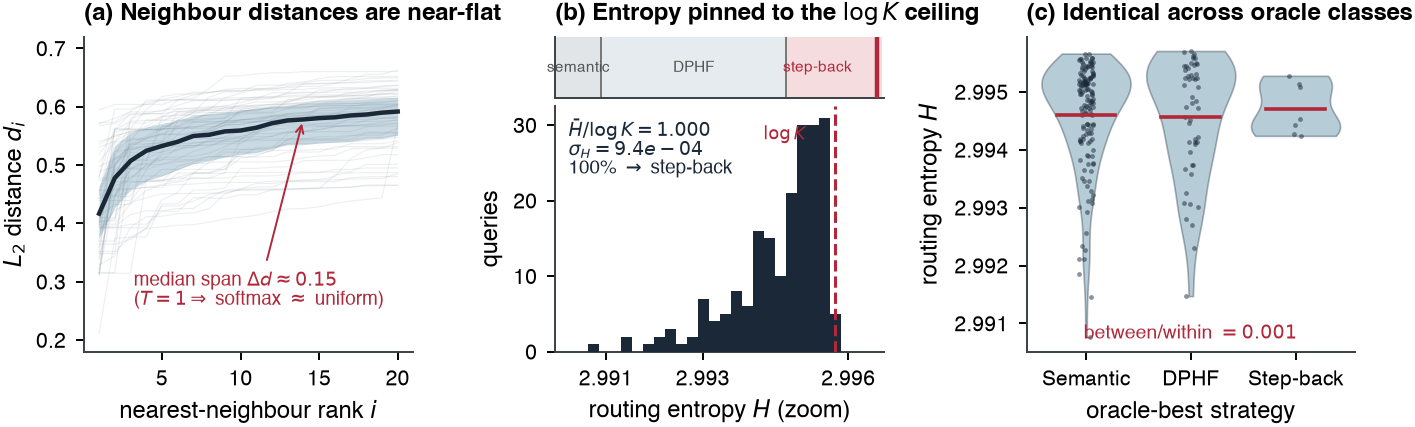
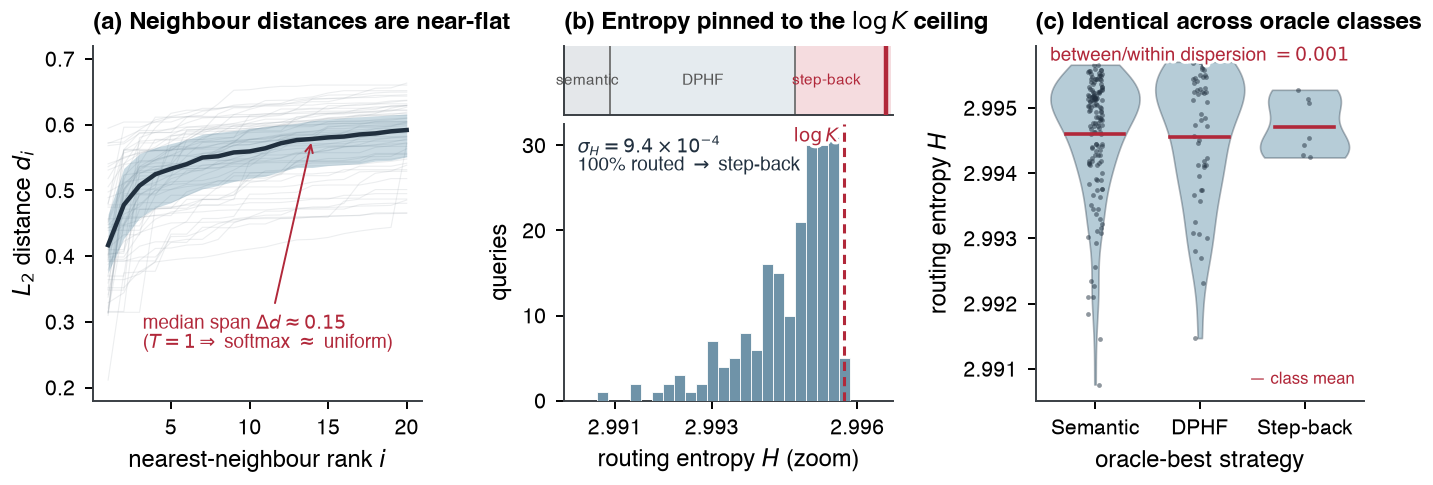
paper(fig): overhaul style -- soft steel bars, sci-notation, haloed labels, margins

diff --git a/paper/extract_recall.py b/paper/extract_recall.py
@@ -1,0 +1,121 @@
+"""Extract Recall@k curves on HetDocQA dev for the reranker-dominance figure.
+
+All configs use the SAME forced first-stage strategy (semantic) and no correction, so the
+curves isolate the *retrieval-stage* components: the cross-encoder reranker vs the
+pool-expansion enhancements (RAPTOR, graph, cross-doc). Retrieval-only (no generation);
+warm cache makes it fast. Dumps paper/figdata/recall_hetdocqa.json.
+
+    uv run python paper/extract_recall.py
+"""
+
+from __future__ import annotations
+
+import asyncio
+import json
+from pathlib import Path
+
+import numpy as np
+
+from sage.cache.store import CacheMode, CallCache
+from sage.clients.base import BackendConfig
+from sage.clients.embedder import OpenAICompatEmbedder
+from sage.clients.reranker import RerankClient
+from sage.config import full
+from sage.config.schema import PipelineConfig
+from sage.core.types import Strategy, StrategyDecision
+from sage.eval.ablate import run_dataset
+from sage.eval.dataset import build_raptor_index, index_passages
+from sage.hetdocqa.eval_loader import build_hetdocqa_dataset
+from sage.pipeline import build_retrieval_pipeline
+from sage.store import LanceDBStore
+
+KS = list(range(1, 31))
+CONCURRENCY = 8
+
+
+class _Forced:
+    def __init__(self, s: Strategy) -> None:
+        self._s = s
+
+    async def route(self, q: str, v: object, store: object) -> StrategyDecision:
+        return StrategyDecision(strategy=self._s)
+
+
+def _cfg(rerank: bool, raptor: bool, graph: bool, cross_doc: bool) -> PipelineConfig:
+    c = full(PipelineConfig())
+    c.rerank.enabled = rerank
+    c.raptor.enabled = raptor
+    c.raptor.cross_doc = cross_doc
+    c.graph.enabled = graph
+    c.correction.enabled = False          # answer-side; excluded from a retrieval figure
+    c.fusion.hyde_expansion = "none"      # strategy is forced to semantic anyway
+    return c
+
+
+CONFIGS = {
+    "Dense (bi-encoder)":        _cfg(False, False, False, False),
+    "+ Reranker":                _cfg(True, False, False, False),
+    "+ Reranker + RAPTOR":       _cfg(True, True, False, True),
+    "+ Reranker + Graph":        _cfg(True, False, True, False),
+    "+ Reranker + all enh.":     _cfg(True, True, True, True),
+}
+
+
+def recall_at_k(ranking: list[str], gold: set[str]) -> list[float]:
+    if not gold:
+        return [float("nan")] * len(KS)
+    hits, out, gi = 0, [], 0
+    seen = 0
+    per_k = {}
+    for r in ranking:
+        seen += 1
+        if r in gold:
+            hits += 1
+        per_k[seen] = hits / len(gold)
+    last = 0.0
+    for k in KS:
+        last = per_k.get(k, last)
+        out.append(last)
+    return out
+
+
+async def main() -> None:
+    ds = build_hetdocqa_dataset(
+        "data/hetdocqa/hetdocqa.jsonl", "data/hetdocqa/corpus_manifest.json",
+        cache_dir=".cache/hetdoc/docs",
+    )
+    cache = CallCache(".cache/hetdocqa", CacheMode.READ_WRITE)
+    embedder = OpenAICompatEmbedder(BackendConfig(provider="omlx", model="bge-m3-mlx-fp16"), cache)
+    reranker = RerankClient(BackendConfig(provider="omlx", model="jina-reranker-v3-mlx"), cache)
+    dim = await embedder.probe()
+    store = LanceDBStore(".cache/hetdocqa/db", dim=dim)
+    await index_passages(store, embedder, ds.corpus)
+    await build_raptor_index(store, embedder, None, full(PipelineConfig()).raptor, seed=42)  # cached
+
+    dev = [e for e in ds.examples if e.metadata.get("split") == "dev"]
+    sub = type(ds)(name="hetdocqa-dev", examples=dev, corpus=ds.corpus,
+                   qrels={e.qid: ds.qrels[e.qid] for e in dev if e.qid in ds.qrels})
+    gold = {q: {c for c, g in r.items() if g > 0} for q, r in sub.qrels.items()}
+
+    curves: dict[str, list[float]] = {}
+    for name, cfg in CONFIGS.items():
+        pipe = build_retrieval_pipeline(cfg, embedder=embedder, store=store, reranker=reranker)
+        pipe.router = _Forced(Strategy.SEMANTIC)  # type: ignore[assignment]
+        run = dict(await run_dataset(pipe, sub, top_k=max(KS),
+                                     semaphore=asyncio.Semaphore(CONCURRENCY)))
+        rk = []
+        for qid in gold:
+            ranking = sorted(run.get(qid, {}), key=lambda c: run[qid][c], reverse=True)
+            rk.append(recall_at_k(ranking, gold[qid]))
+        curves[name] = np.nanmean(np.array(rk), axis=0).tolist()
+        print(f"{name}: R@10={curves[name][9]:.3f}")
+
+    Path("paper/figdata").mkdir(parents=True, exist_ok=True)
+    Path("paper/figdata/recall_hetdocqa.json").write_text(
+        json.dumps({"ks": KS, "curves": curves})
+    )
+    print("wrote paper/figdata/recall_hetdocqa.json")
+
+
+if __name__ == "__main__":
+    asyncio.run(main())

diff --git a/paper/make_figures.py b/paper/make_figures.py
@@ -28,7 +28,7 @@ def fig_routing_degeneracy(data: dict, name: str) -> None:
     dists = {q: np.sort(np.asarray(data["knn_distances"][q])) for q in qids}
     labels = data["labels"]
 
-    fig, axes = plt.subplots(1, 3, figsize=(fs.WIDE, 2.35))
+    fig, axes = plt.subplots(1, 3, figsize=(fs.WIDE, 2.55))
 
     # (a) kNN distance profiles are near-flat -> softmax(-d/T) is ~uniform.
     ax = axes[0]
@@ -86,12 +86,13 @@ def fig_routing_degeneracy(data: dict, name: str) -> None:
     axc.set_title(r"(b) Entropy pinned to the $\log K$ ceiling", loc="left")
 
     # zoomed distribution near the ceiling.
-    axz.hist(H, bins=np.linspace(H.min() - 0.0008, logk + 0.0008, 30), color=fs.INK, zorder=3)
-    axz.axvline(logk, color=fs.ACCENT, lw=1.1, ls="--", zorder=4)
-    axz.text(logk - 0.0006, axz.get_ylim()[1] * 0.92, r"$\log K$", color=fs.ACCENT,
-             fontsize=6.5, va="top", ha="right")
-    axz.text(0.04, 0.95, fr"$\bar H/\log K={H.mean()/logk:.3f}$" + "\n"
-             + fr"$\sigma_H={H.std():.1e}$" + "\n" + f"{100*n_sb/len(qids):.0f}% $\\to$ step-back",
+    axz.hist(H, bins=np.linspace(H.min() - 0.0008, logk + 0.0008, 30),
+             color=fs.BAR, edgecolor="white", linewidth=0.3, zorder=3)
+    axz.axvline(logk, color=fs.ACCENT, lw=1.1, ls=(0, (3, 2)), zorder=4)
+    fs.halo(axz.text(logk - 0.00012, axz.get_ylim()[1] * 0.99, r"$\log K$", color=fs.ACCENT,
+                     fontsize=6.8, va="top", ha="right", zorder=5))
+    axz.text(0.04, 0.96, fr"$\sigma_H={fs.sci(H.std())}$" + "\n"
+             + f"{100 * n_sb / len(qids):.0f}% routed $\\to$ step-back",
              transform=axz.transAxes, fontsize=6.8, va="top", ha="left", color=fs.INK)
     axz.set_xlim(H.min() - 0.0008, logk + 0.0010)
     axz.set_xlabel("routing entropy $H$ (zoom)")
@@ -116,8 +117,10 @@ def fig_routing_degeneracy(data: dict, name: str) -> None:
     grand = H.mean()
     between = sum(len(g) * (np.mean(g) - grand) ** 2 for g in groups if g)
     within = sum(sum((x - np.mean(g)) ** 2 for x in g) for g in groups if g)
-    ax.text(0.5, 0.04, f"between/within $= {between / max(within, 1e-9):.3f}$",
-            transform=ax.transAxes, fontsize=7, ha="center", color=fs.ACCENT)
+    fs.halo(ax.text(0.5, 1.0, f"between/within dispersion $= {between / max(within, 1e-9):.3f}$",
+            transform=ax.transAxes, fontsize=6.8, ha="center", va="top", color=fs.ACCENT, zorder=6))
+    fs.halo(ax.text(0.97, 0.04, "— class mean", transform=ax.transAxes, fontsize=6,
+            ha="right", va="bottom", color=fs.ACCENT, zorder=6))
     ax.set_xticks(range(1, len(labels) + 1))
     ax.set_xticklabels([_LABEL_NAMES[s] for s in labels])
     ax.set_xlabel("oracle-best strategy")
@@ -129,13 +132,66 @@ def fig_routing_degeneracy(data: dict, name: str) -> None:
     print("wrote F_routing_degeneracy")
 
 
+def fig_recall_dominance(data: dict) -> None:
+    """Two panels: the reranker lifts Recall@k; pool-expansion enhancements pile on top."""
+    ks = np.array(data["ks"])
+    c = data["curves"]
+    dense = np.array(c["Dense (bi-encoder)"])
+    rerank = np.array(c["+ Reranker"])
+    enh = {"+ RAPTOR": ("+ Reranker + RAPTOR", fs.COOL),
+           "+ Graph": ("+ Reranker + Graph", fs.GREEN),
+           "+ all enh.": ("+ Reranker + all enh.", fs.ACCENT)}
+
+    fig, (axA, axB) = plt.subplots(1, 2, figsize=(fs.WIDE * 0.74, 2.5),
+                                   gridspec_kw={"width_ratios": [1.25, 1]})
+
+    # (a) the whole story: dense vs +reranker vs +enhancements.
+    axA.plot(ks, dense, color=fs.NULL, ls=(0, (4, 2)), lw=1.6, label="Dense (bi-encoder)", zorder=2)
+    axA.plot(ks, rerank, color=fs.INK, lw=2.2, label="+ Reranker", zorder=4)
+    for lbl, (key, col) in enh.items():
+        axA.plot(ks, np.array(c[key]), color=col, lw=1.0, alpha=0.95, label=lbl, zorder=3)
+    k0 = 9  # k=10
+    axA.annotate("", xy=(10, rerank[k0]), xytext=(10, dense[k0]),
+                 arrowprops=dict(arrowstyle="<->", color=fs.ACCENT, lw=1.0))
+    axA.text(11.5, (rerank[k0] + dense[k0]) / 2,
+             f"reranker\n$+{rerank[k0] - dense[k0]:.2f}$ R@10", color=fs.ACCENT, fontsize=7, va="center")
+    axA.set_xlabel("$k$")
+    axA.set_ylabel("Recall@$k$")
+    axA.set_xlim(1, ks.max())
+    axA.set_ylim(0, 1)
+    axA.legend(loc="lower right", fontsize=6.6)
+    axA.set_title("(a) The reranker carries retrieval", loc="left")
+
+    # (b) zoom on the reranker-on curves: the enhancements are indistinguishable.
+    band = np.vstack([rerank] + [np.array(c[k]) for k, _ in enh.values()])
+    axB.fill_between(ks, band.min(0), band.max(0), color=fs.NULL_L, alpha=0.7, lw=0, zorder=1,
+                     label="enh. spread")
+    axB.plot(ks, rerank, color=fs.INK, lw=1.8, zorder=4, label="+ Reranker")
+    for lbl, (key, col) in enh.items():
+        axB.plot(ks, np.array(c[key]), color=col, lw=1.0, alpha=0.95, zorder=3)
+    maxspread = float(np.max(band.max(0) - band.min(0)))
+    axB.text(0.5, 0.08, f"max spread across\nenhancements $\\leq {maxspread:.03f}$",
+             transform=axB.transAxes, ha="center", fontsize=7, color=fs.ACCENT)
+    axB.set_xlabel("$k$")
+    axB.set_ylabel("Recall@$k$")
+    axB.set_xlim(1, ks.max())
+    lo = float(min(rerank[4:].min(), band[:, 4:].min())) - 0.02
+    axB.set_ylim(lo, 1.0)
+    axB.set_title("(b) Enhancements add nothing on top", loc="left")
+
+    fig.tight_layout(w_pad=1.4)
+    fs.save(fig, "F_recall_dominance")
+    print("wrote F_recall_dominance")
+
+
 def main() -> None:
     fs.use_style()
     routing = FIGDATA / "routing_musique.json"
     if routing.exists():
         fig_routing_degeneracy(json.loads(routing.read_text()), "musique")
-    else:
-        print(f"missing {routing}; run scripts/diag_router.py musique")
+    recall = FIGDATA / "recall_hetdocqa.json"
+    if recall.exists():
+        fig_recall_dominance(json.loads(recall.read_text()))
 
 
 if __name__ == "__main__":

diff --git a/paper/figstyle.py b/paper/figstyle.py
@@ -22,13 +22,27 @@ WIDE = 7.0
 
 # Restrained, colorblind-safe palette: ink for primary, one warm accent for emphasis,
 # a cool secondary, neutral grays for null/context.
-INK = "#1b2838"
+INK = "#21303f"        # near-ink, for lines/text (NOT for filled bars)
 ACCENT = "#b1283a"     # crimson -- the one thing that matters per figure
 COOL = "#2f6f8f"       # slate blue -- secondary series
 GREEN = "#2e7d52"      # the lone positive (SSCC)
+BAR = "#6f93a8"        # muted steel -- histogram/bar fills (soft, not black)
 NULL = "#9aa3ab"       # null / "everything else"
-NULL_L = "#cfd4d9"
+NULL_L = "#d3d8dd"
 GRID = "#e6e8eb"
+
+
+def sci(x: float, prec: int = 1) -> str:
+    """Mathtext scientific notation (inner, no $), e.g. 9.4e-4 -> '9.4\\times10^{-4}'."""
+    m, e = f"{x:.{prec}e}".split("e")
+    return rf"{m}\times10^{{{int(e)}}}"
+
+
+def halo(txt, lw: float = 2.2):
+    """Give a text object a thin white outline so it stays readable over busy areas."""
+    import matplotlib.patheffects as pe
+    txt.set_path_effects([pe.withStroke(linewidth=lw, foreground="white")])
+    return txt
 
 
 def use_style() -> None:
@@ -36,7 +50,9 @@ def use_style() -> None:
         "figure.dpi": 200,
         "savefig.dpi": 300,
         "savefig.bbox": "tight",
-        "savefig.pad_inches": 0.015,
+        "savefig.pad_inches": 0.06,
+        "savefig.facecolor": "white",
+        "figure.facecolor": "white",
         "pdf.fonttype": 42,            # embed TrueType (editor-friendly, no Type3)
         "ps.fonttype": 42,
         "font.family": "sans-serif",